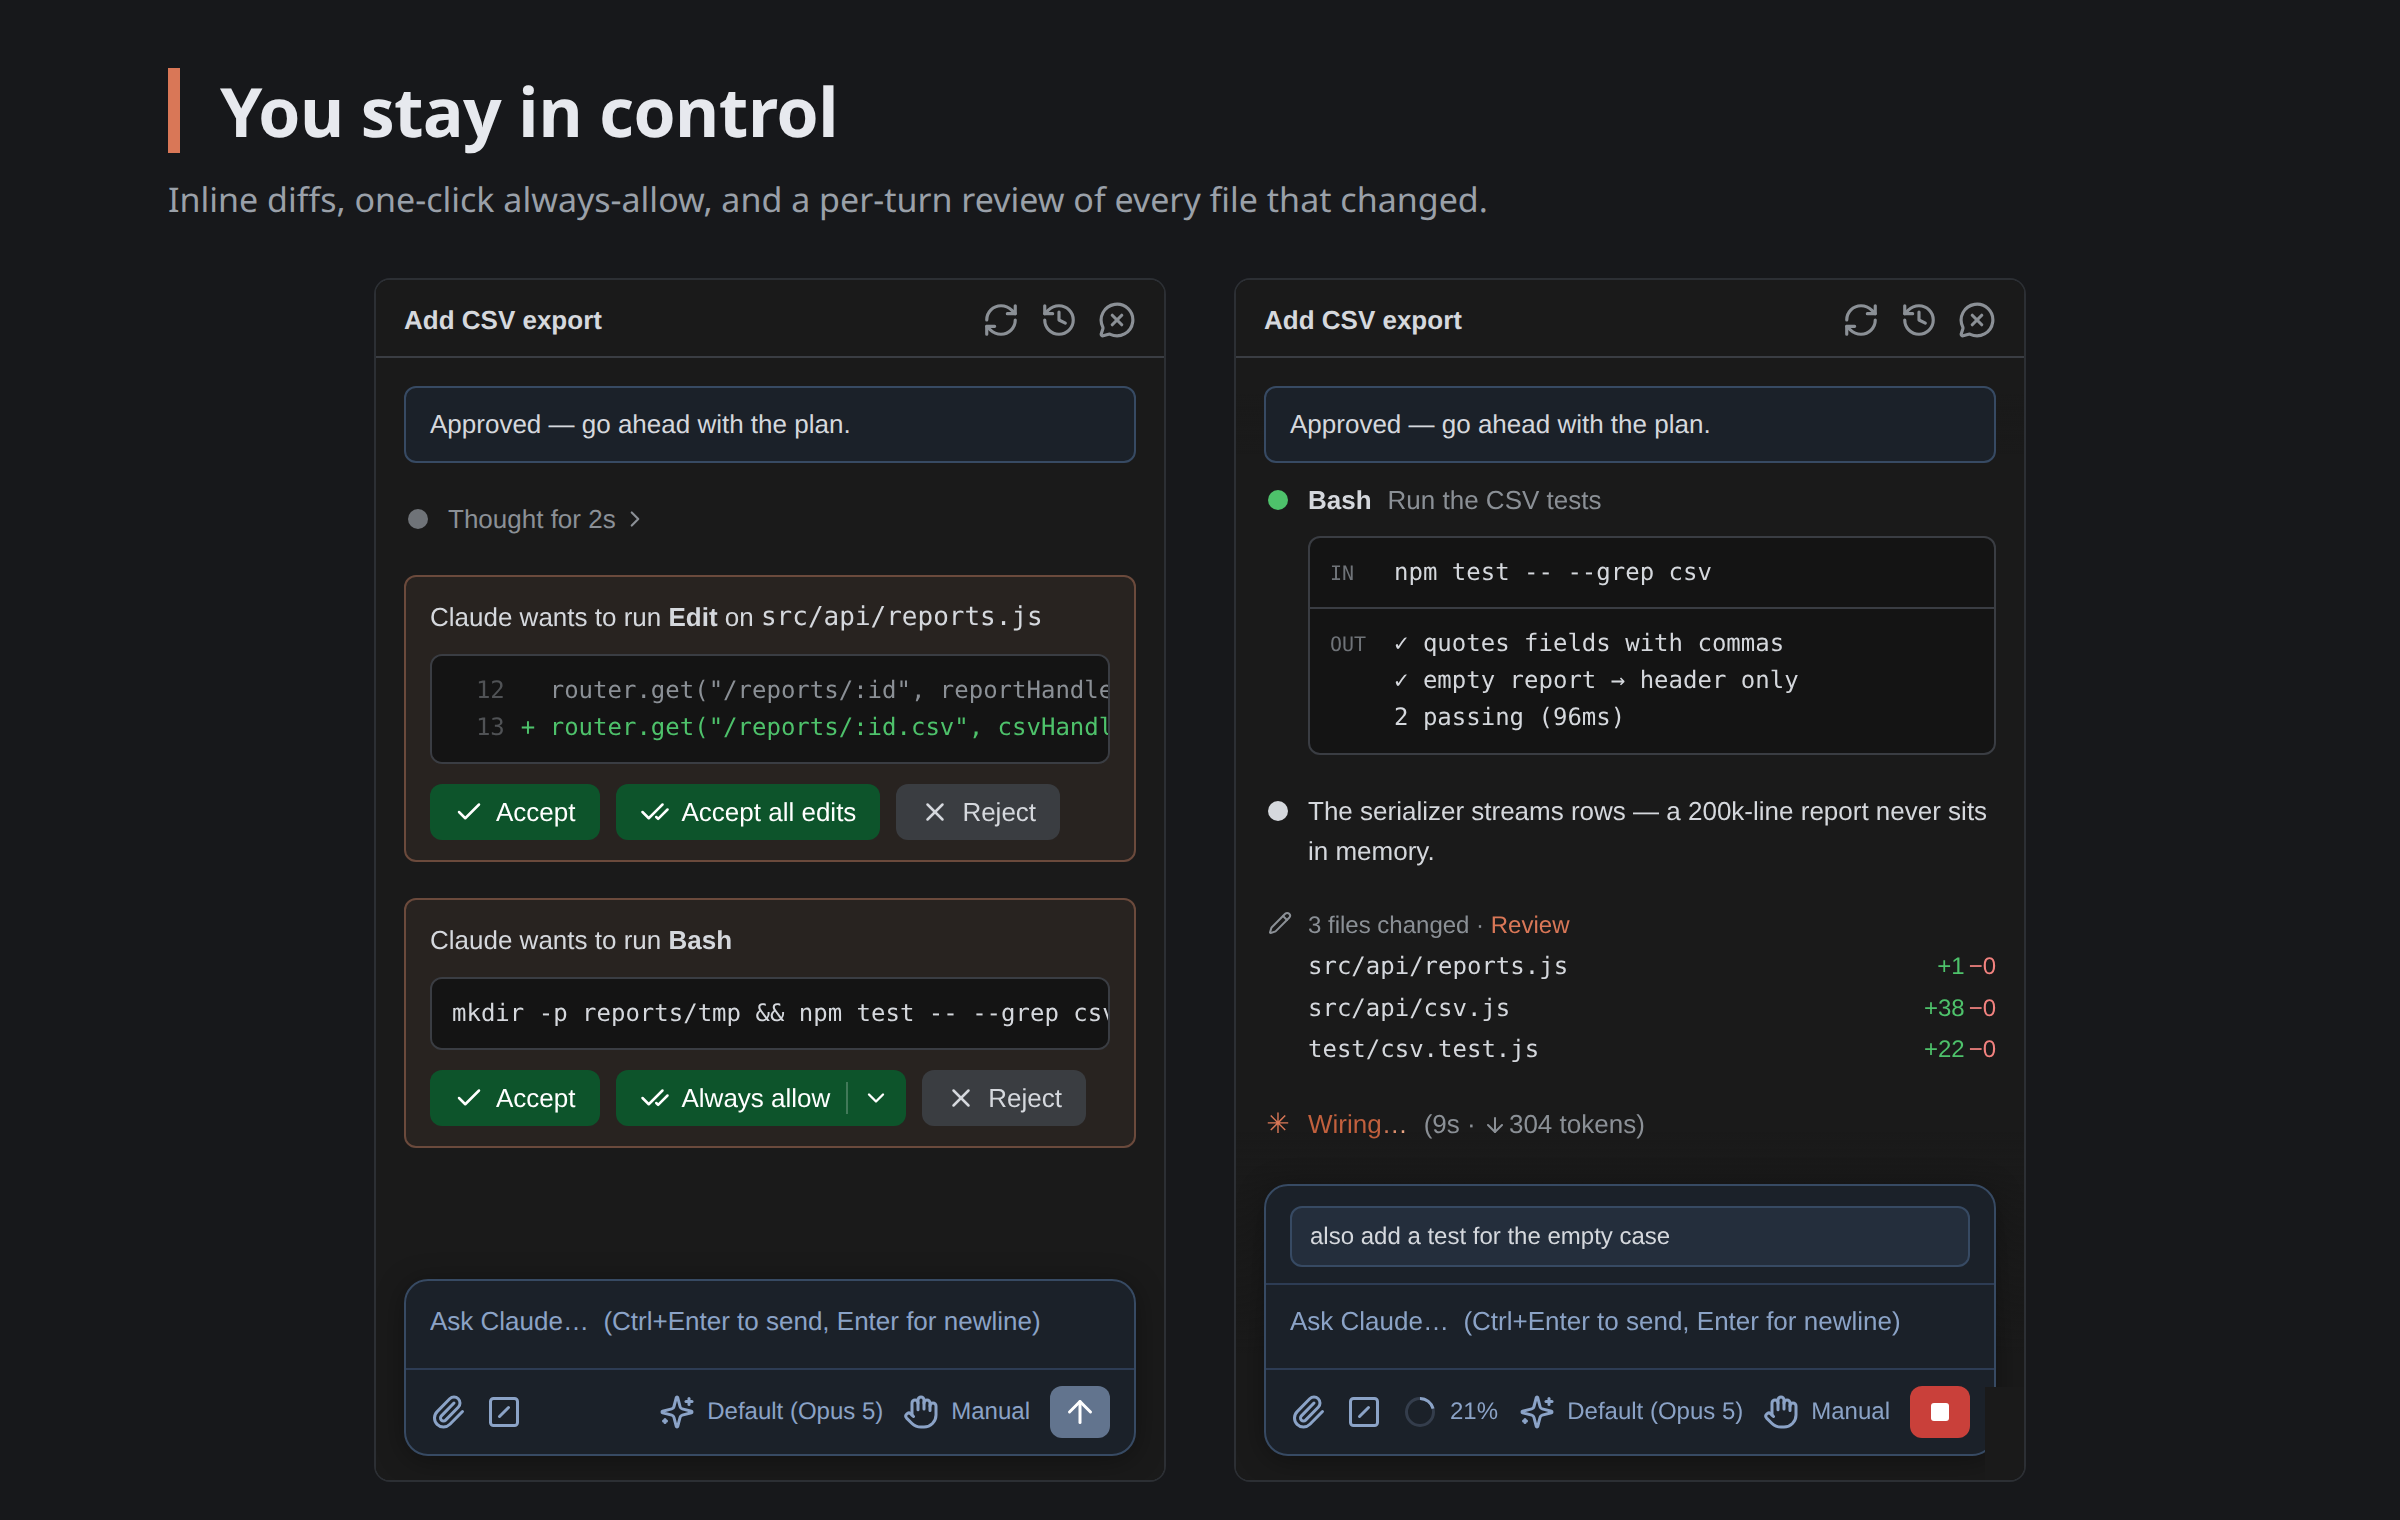
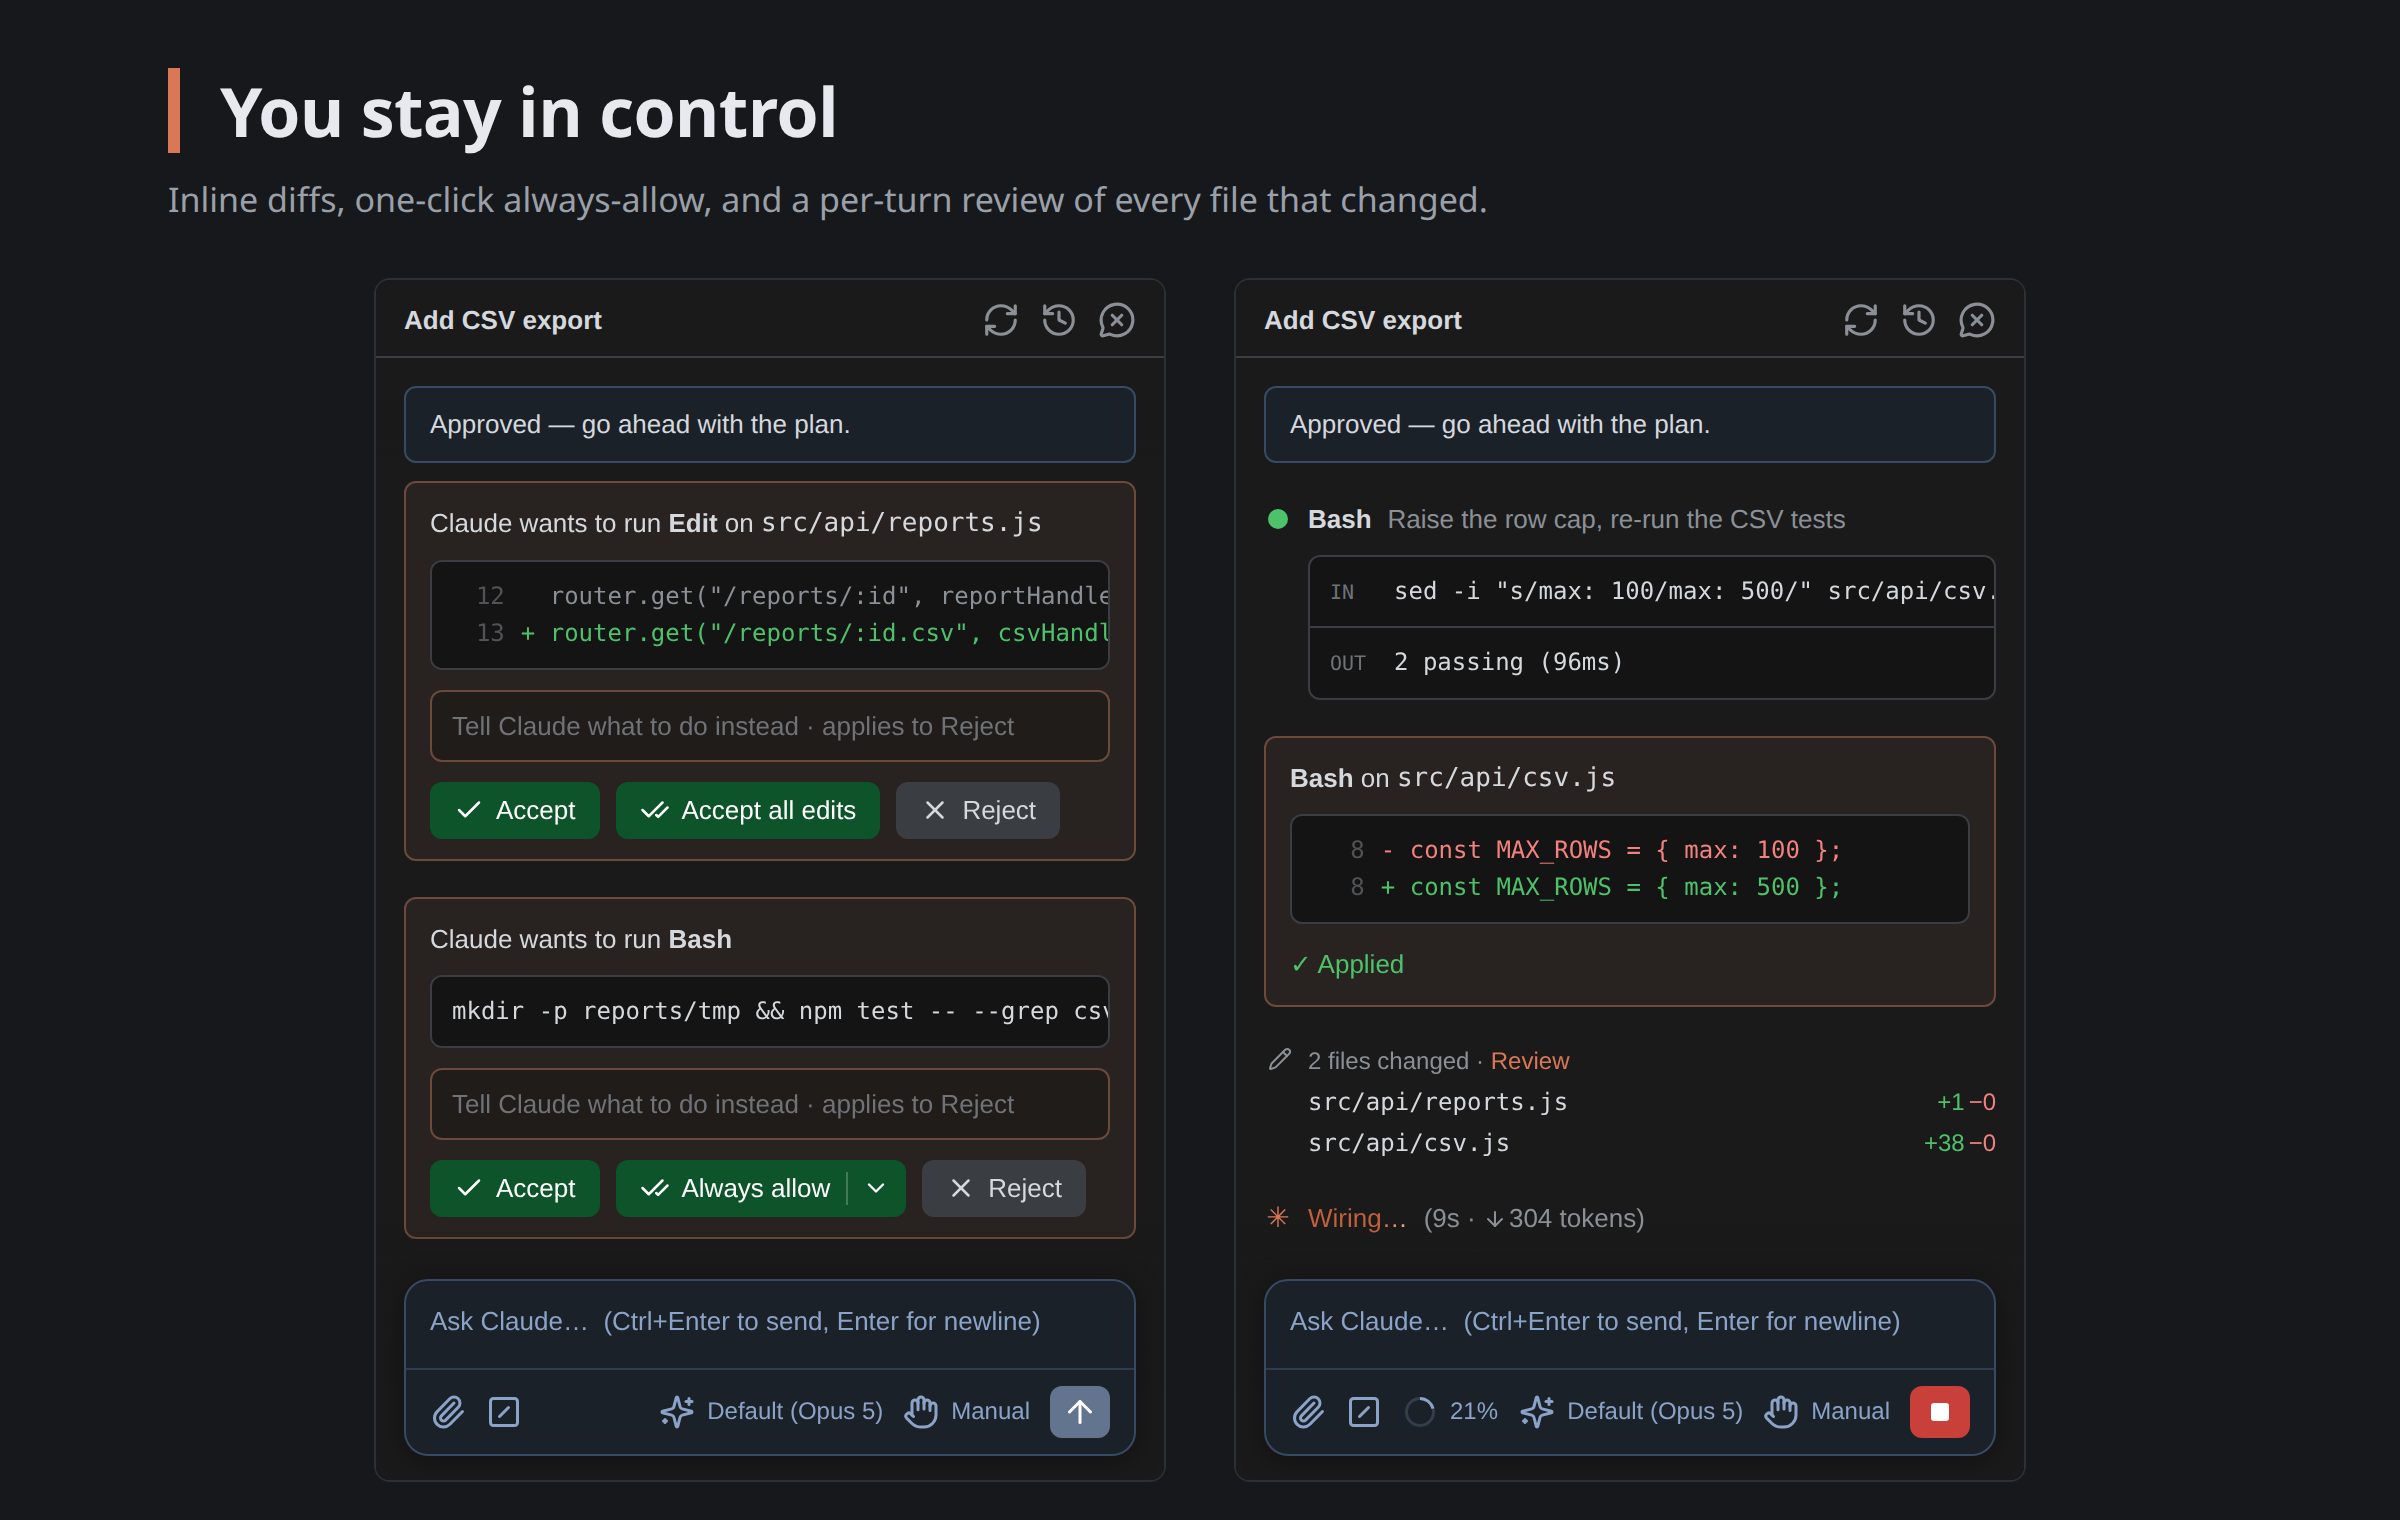
Marketplace screenshot 03: reject-note field above the buttons on both cards, Bash edit-diff card on the right; scene trimmed to fit

diff --git a/tools/marketplace_shots.py b/tools/marketplace_shots.py
@@ -181,16 +181,15 @@ idle();
 S3_RIGHT = COMMON + r"""
 window.onClaudeEvent(JSON.stringify({type:'__title', text:'Add CSV export'}));
 user('Approved — go ahead with the plan.');
-tool('Edit', '/home/you/shop/src/api/reports.js', true);
-tool('Write', '/home/you/shop/src/api/csv.js', true);
-tool('Bash', 'Run the CSV tests').after(ioBox([['IN','npm test -- --grep csv'],['OUT','✓ quotes fields with commas\n✓ empty report → header only\n2 passing (96ms)']]));
-md('The serializer streams rows — a 200k-line report never sits in memory.');
+// 1.29: a Bash command that edits a file gets its diff drawn under the IN/OUT box, through the
+// real builder — the CLI's bashEditDiff sidecar shape, one card per file.
+{ const box = ioBox([['IN','sed -i "s/max: 100/max: 500/" src/api/csv.js && npm test -- --grep csv'],['OUT','2 passing (96ms)']]);
+  tool('Bash', 'Raise the row cap, re-run the CSV tests').after(box);
+  appendBashDiff(box, { files: [{ filePath: '/home/you/shop/src/api/csv.js', created: false,
+    hunks: [{ oldStart: 8, oldLines: 1, newStart: 8, newLines: 1, lines: ['-const MAX_ROWS = { max: 100 };', '+const MAX_ROWS = { max: 500 };'] }] }], moreFiles: 0, changedFiles: [] }); }
 window.onClaudeEvent(JSON.stringify({type:'__files_changed', turn:1, files:[
   {path:'/home/you/shop/src/api/reports.js', added:1, removed:0, isNew:false},
-  {path:'/home/you/shop/src/api/csv.js', added:38, removed:0, isNew:true},
-  {path:'/home/you/shop/test/csv.test.js', added:22, removed:0, isNew:true}]}));
-queue = [{ text:'also add a test for the empty case', images:[] }];
-renderQueue();
+  {path:'/home/you/shop/src/api/csv.js', added:38, removed:0, isNew:true}]}));
 working('Wiring…', '9s', '304'); setContext(210000);
 """
 
